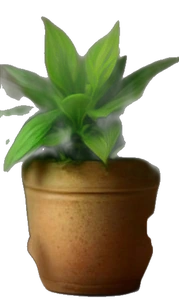
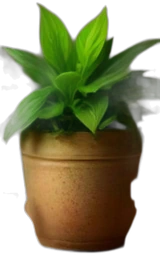
feat: switch cat image per interaction and smooth plant alpha
Generate sleeping, happy, playing, eating and stretching cat images, map every mood to its own preloaded WebP, and rebuild the plant cutout with premultiplied alpha and a feathered matte.

diff --git a/src/components/Shelf/ShelfCat.tsx b/src/components/Shelf/ShelfCat.tsx
@@ -39,7 +39,15 @@ export function ShelfCat({ dragActive = false, x = 82, dragging = false, movable
   const greeted = useRef(false);
   const moodRef = useRef<CatMood>('sleeping');
   const decorBase = `${import.meta.env.BASE_URL}decor/`;
-  const catImage = 'cat-ai.webp';
+  const catImages: Record<CatMood, string> = {
+    sleeping: 'cat-sleeping.webp',
+    awake: 'cat-ai.webp',
+    happy: 'cat-happy.webp',
+    playing: 'cat-playing.webp',
+    eating: 'cat-eating.webp',
+    stretching: 'cat-stretching.webp',
+  };
+  const catImage = catImages[mood];
 
   const clear = (ref: React.MutableRefObject<number | null>) => {
     if (ref.current) {
@@ -171,6 +179,14 @@ export function ShelfCat({ dragActive = false, x = 82, dragging = false, movable
     return () => window.clearInterval(idle);
     // eslint-disable-next-line react-hooks/exhaustive-deps
   }, [bubble, dragActive]);
+
+  useEffect(() => {
+    for (const name of Object.values(catImages)) {
+      const img = new Image();
+      img.src = `${import.meta.env.BASE_URL}decor/${name}`;
+    }
+    // eslint-disable-next-line react-hooks/exhaustive-deps
+  }, []);
 
   useEffect(() => {
     return () => {
